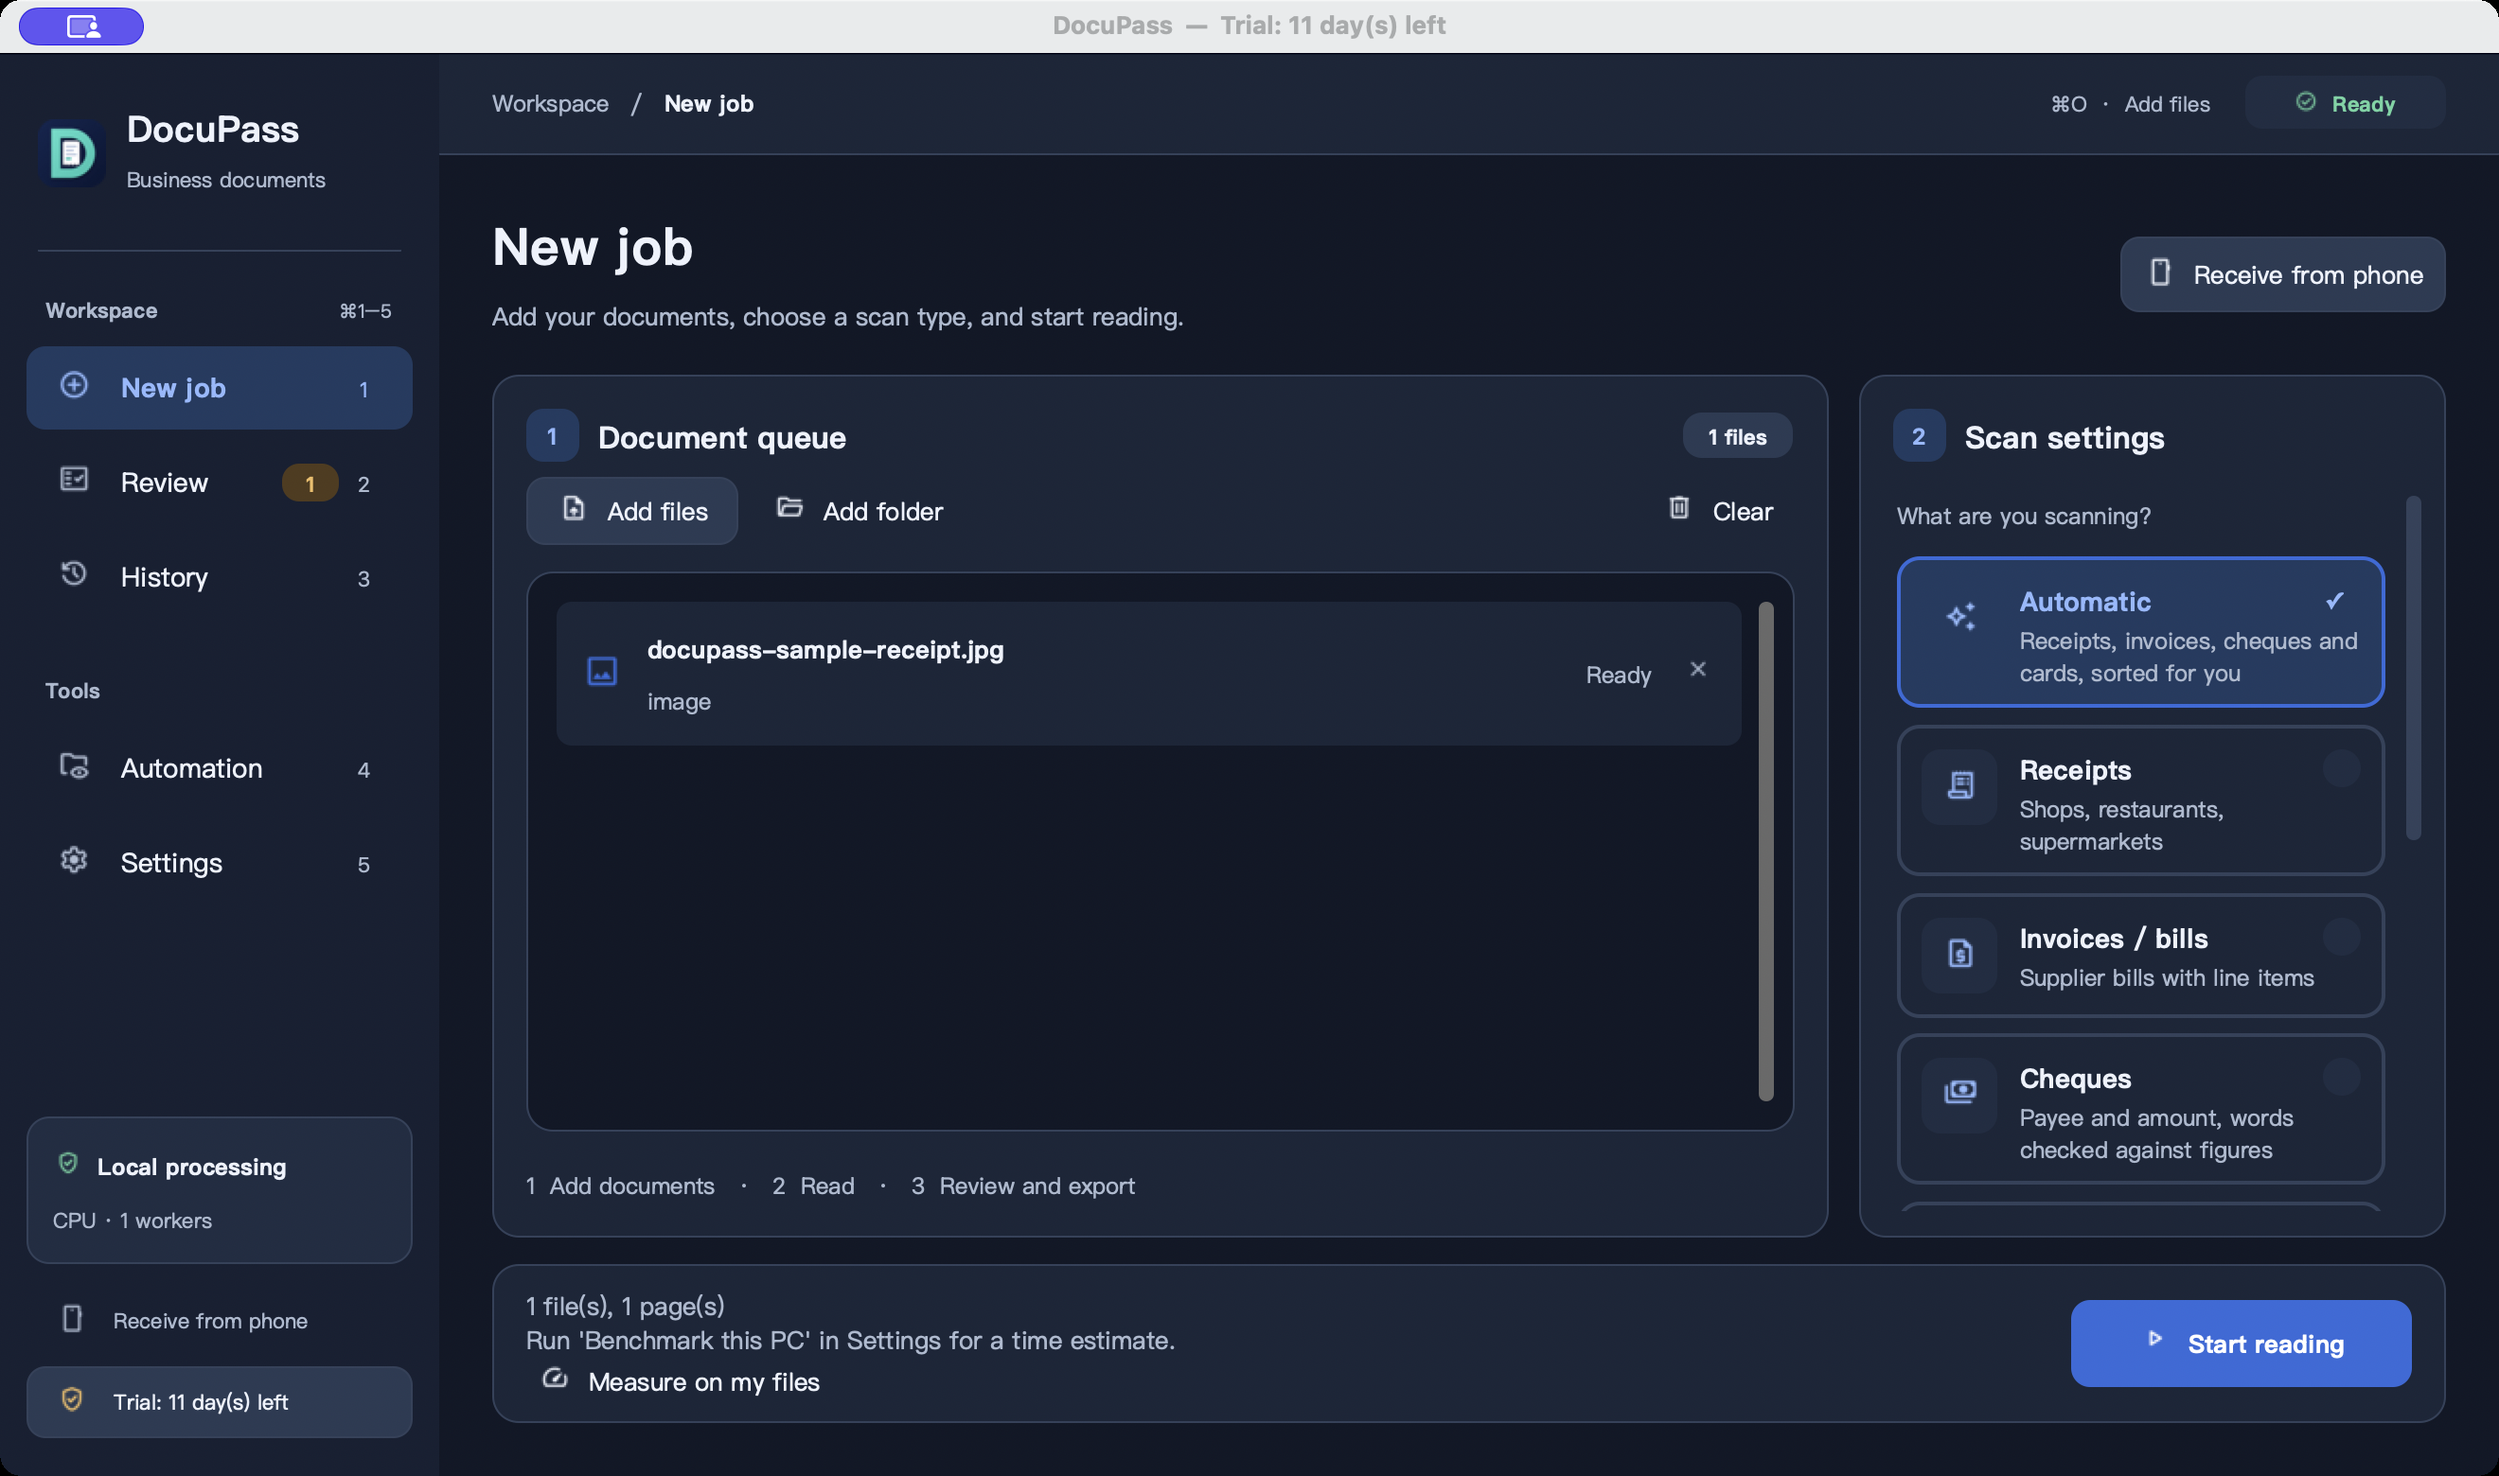
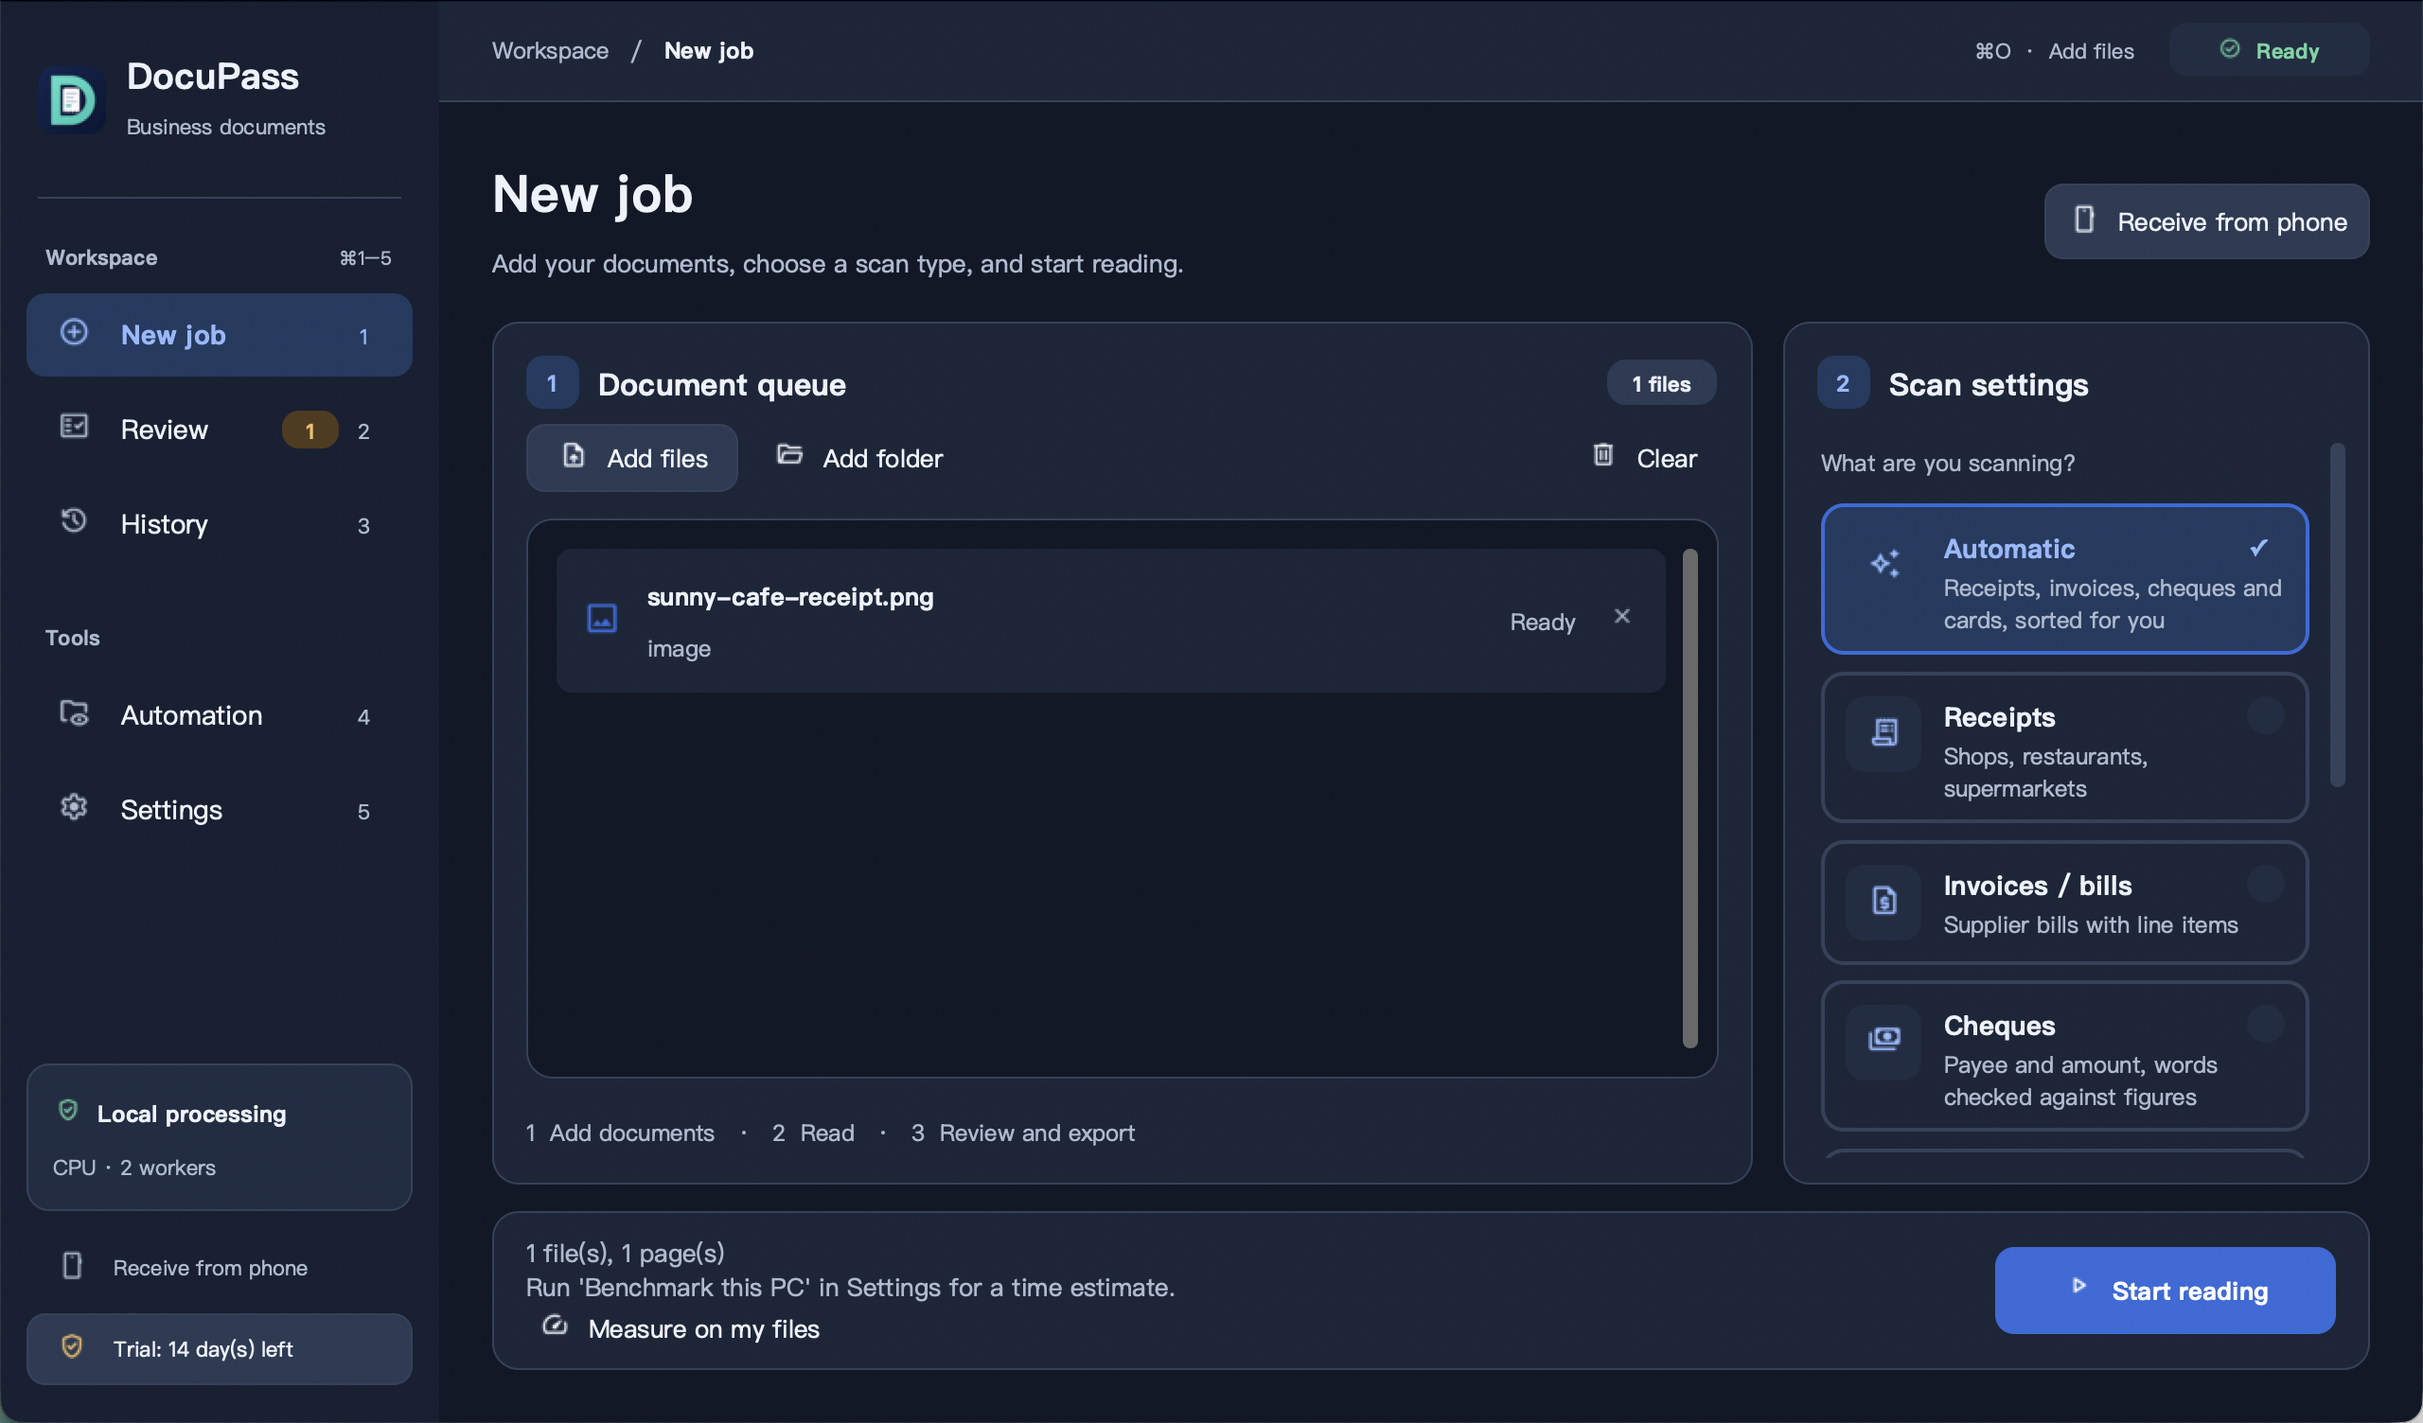
Show eight current DocuPass app screens
Recapture the desktop app from source with the project's isolated
verify_ui preview: new job, benchmark tools, review, AI helper,
automation, history, custom document types and phone pairing, all in
the dark theme. The review and history screens use the recorded
synthetic SUNNY CAFE receipt result on the app's own crop. The capture
shows the trial licence state and labels the example custom type.

Add the three new screens to the gallery with captions in five
languages, update the recognition and AI captions to match what is
shown, update image dimensions, and record the capture method.

diff --git a/src/data/products.ts b/src/data/products.ts
@@ -252,8 +252,8 @@ export const products: Product[] = [
           ][index]
         }`,
         alt: `${title}: ${description}`,
-        width: index === 0 ? 2640 : 1440,
-        height: index === 0 ? 1560 : 900,
+        width: index === 0 ? 2560 : 1440,
+        height: index === 0 ? 1504 : 900,
       }),
     ),
   },

diff --git a/src/styles/global.css b/src/styles/global.css
@@ -4354,7 +4354,7 @@ h3 {
   transform: none;
 }
 .docu-detail-hero .detail-preview-hero img {
-  aspect-ratio: 2640/1560;
+  aspect-ratio: 2560/1504;
   object-fit: contain;
 }
 .docu-hero-actions {

diff --git a/docs/DEMO_EVIDENCE.md b/docs/DEMO_EVIDENCE.md
@@ -62,3 +62,11 @@ Descriptions were checked against the source README, phase notes, Flutter list/s
 Basketball Clip Mixer screenshots were replaced with seven fresh captures of the current Mac source build of the desktop app (`outputs/nba-video-studio`, built from `codex/mac-release-roadmap`): local clip workspace, game calendar, output library, 9:16 Shorts editor, player and ball tracking picker, manual editor, and settings with recent jobs. The app ran from a copied source folder with an isolated state directory, so no personal library, preferences, OAuth tokens or downloads were loaded. A capture script opened each page and dialog and captured the window. All media are synthetic clips generated for the capture and are visibly marked as not real footage. Games, teams and players are fictional demo records. No live collection, render benchmark or upload is claimed. The tracking image shows the user's selection boxes, not a completed tracked render. Feature copy follows the app's specification and release-status documents. The 143-test unit suite and CI results reported there were not re-run for this capture.
 
 Five RimRise Unity gallery images were added from existing native macOS QA captures in the local `rimrise-latest` workspace: the character appearance studio (`life-studio-20261015`), home Build and Buy mode (`house-buildmode-20261011`), city incident HUD (`city-incidents-20261016`), vehicle damage (`driving-20261015`) and the pet shop interior (`life-studio-20261015`). They are re-encoded as WebP without cropping. These are QA captures, not newly recorded gameplay.
+
+## DocuPass — expanded captures 22 October 2026
+
+Source snapshot: `bf86a8c1853b976cdba95610fd5515ce46b5a5b9` (unchanged since the 19 October captures), run on macOS with CustomTkinter 6.0.0, the version bundled in the packaged app.
+
+Eight dark-theme screens replace the five 19 October captures and extend the gallery: New job, Recognition (scrolled to the hardware summary, Benchmark this PC and Auto-pick), Review, the AI helper, Automation, History, Documents (custom types and remembered corrections) and phone pairing. They are `public/images/projects/docupass-current-*.webp`, encoded losslessly. The app ran through the project's own `scripts/verify_ui.py` preview mode. That mode patches settings, licence, storage and the phone receiver into a temporary directory, and does not start OCR workers, a phone receiver or cloud calls. Its 2053 interface checks ran first. Two failed: one because the 800-point screen clamped the window height, and a Settings deep-link check. A capture script then opened each screen and captured the window.
+
+To keep the screens accurate for a public page, the capture replaced several QA fixtures. The licence shows the app's real 14-day trial state instead of the QA "Pro" licence. The custom document type is labelled "Example: delivery note". History holds two jobs built from the synthetic receipt. The AI model field is left empty. The Review screen and both History jobs use the 14 October recorded OCR output for the synthetic SUNNY CAFE receipt, on the receipt cropped by the app's own `crop_document`; the recorded field boxes align with that crop. No new OCR run is claimed. The AI helper is shown switched on with the local Ollama preset; no AI request was made. The phone pairing dialog uses the QA fake receiver, so its QR code, local address and paired phones are synthetic. The Export dialog was not captured.

diff --git a/README.md b/README.md
@@ -47,7 +47,7 @@ After editing the social preview source SVG, regenerate its PNG with `npm run so
 
 - `/` — studio overview and local prompt preparation workflow
 - `/products` — product portfolio
-- `/products/docupass` — six-chapter animated feature story, five current app captures, platform roles, OCR evidence and handwriting evaluation
+- `/products/docupass` — six-chapter animated feature story, eight current app captures (new job, benchmark, review, AI helper, automation, history, custom types, phone pairing), platform roles, OCR evidence and handwriting evaluation
 - `/products/vidoany`
 - `/products/tokensaver` — Promptwell local prompt preparation, four real captures
 - `/products/monitor` — local Windows resource dashboard and real capture
